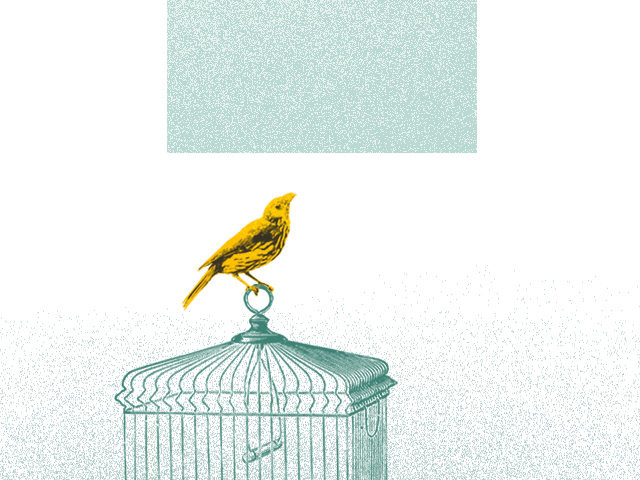
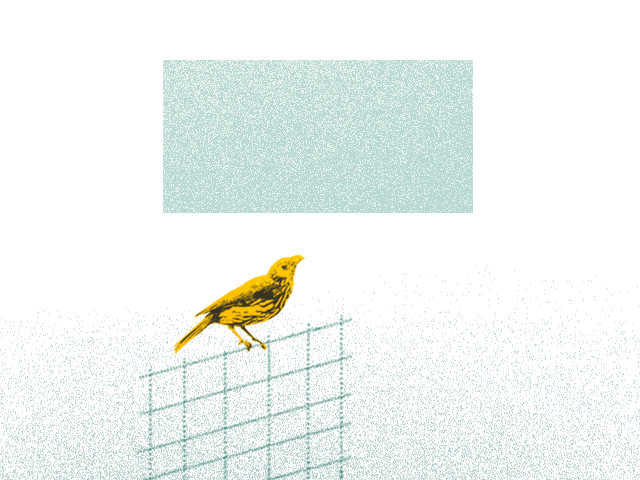
feature layout images

Changed region(s): [[0.1562, 0.0, 0.75, 1.0]]

diff --git a/homepage/theme/templates/index.html b/homepage/theme/templates/index.html
@@ -46,7 +46,7 @@
 
             <div class="flex justify-center w55-container" id="bg-feature-1">
               <div class="w56 tc pa3">
-                <h2 class="f25 normal lh-solid mt4 mb3">
+                <h2 class="f25 normal lh-solid mt5 mb3">
                   Free & Open
                 </h2>
                 <p class="ma0 mb5">
@@ -55,14 +55,23 @@
               </div>
             </div>
 
-
+            <div class="flex justify-center w55-container" id="bg-feature-3">
+              <div class="w56 tc pa3">
+                <h2 class="f25 normal lh-solid mt6 mb3">
+                  Self hosted
+                </h2>
+                <p class="ma0">
+                  Comply with GDPR guidelines. Don't share data with third parties. Your users have full access to their data.
+                </p>
+              </div>
+            </div>
 
             <div class="flex justify-center w55-container" id="bg-feature-2">
               <div class=" w56 tc pa3">
-                <h2 class="f25 normal lh-solid mt77 mb3">
+                <h2 class="f25 normal lh-solid mt7 mb3">
                   Fair & Secure
                 </h2>
-                <p class="ma0 mb5">
+                <p class="ma0">
                   Pay respect to your website visitors. Gain valuable insights at the same time. All data is encrypted end-to-end.
                 </p>
               </div>
@@ -70,16 +79,7 @@
 
 
 
-            <div class="flex justify-center w55-container mintA">
-              <div class="w56 tc pa3">
-                <h2 class="f25 normal lh-solid">
-                  <em>Self hosted</em>
-                </h2>
-                <p class="ma0 mb5">
-                  Comply with GDPR guidelines. Don't share data with third parties. Your users have full access to their data.
-                </p>
-              </div>
-            </div>
+
 
 
 

diff --git a/homepage/theme/static/css/fix.css b/homepage/theme/static/css/fix.css
@@ -80,9 +80,6 @@ LAYOUT
     width: 100%;
   }
 }
-.mt77 {
-	margin-top: 18rem;
-}
 
 /* ---------------------------------------------------
 TYPO AND LAYOUT ELEMENTS
@@ -361,6 +358,10 @@ GRAPHICS
 }
 #bg-feature-2 {
   background: url(/theme/images/gfx-feature-2.png) center;
+	background-repeat: no-repeat;
+}
+#bg-feature-3 {
+  background: url(/theme/images/gfx-feature-3.png) center;
 	background-repeat: no-repeat;
 }
 /* --------------------------------------------- */
